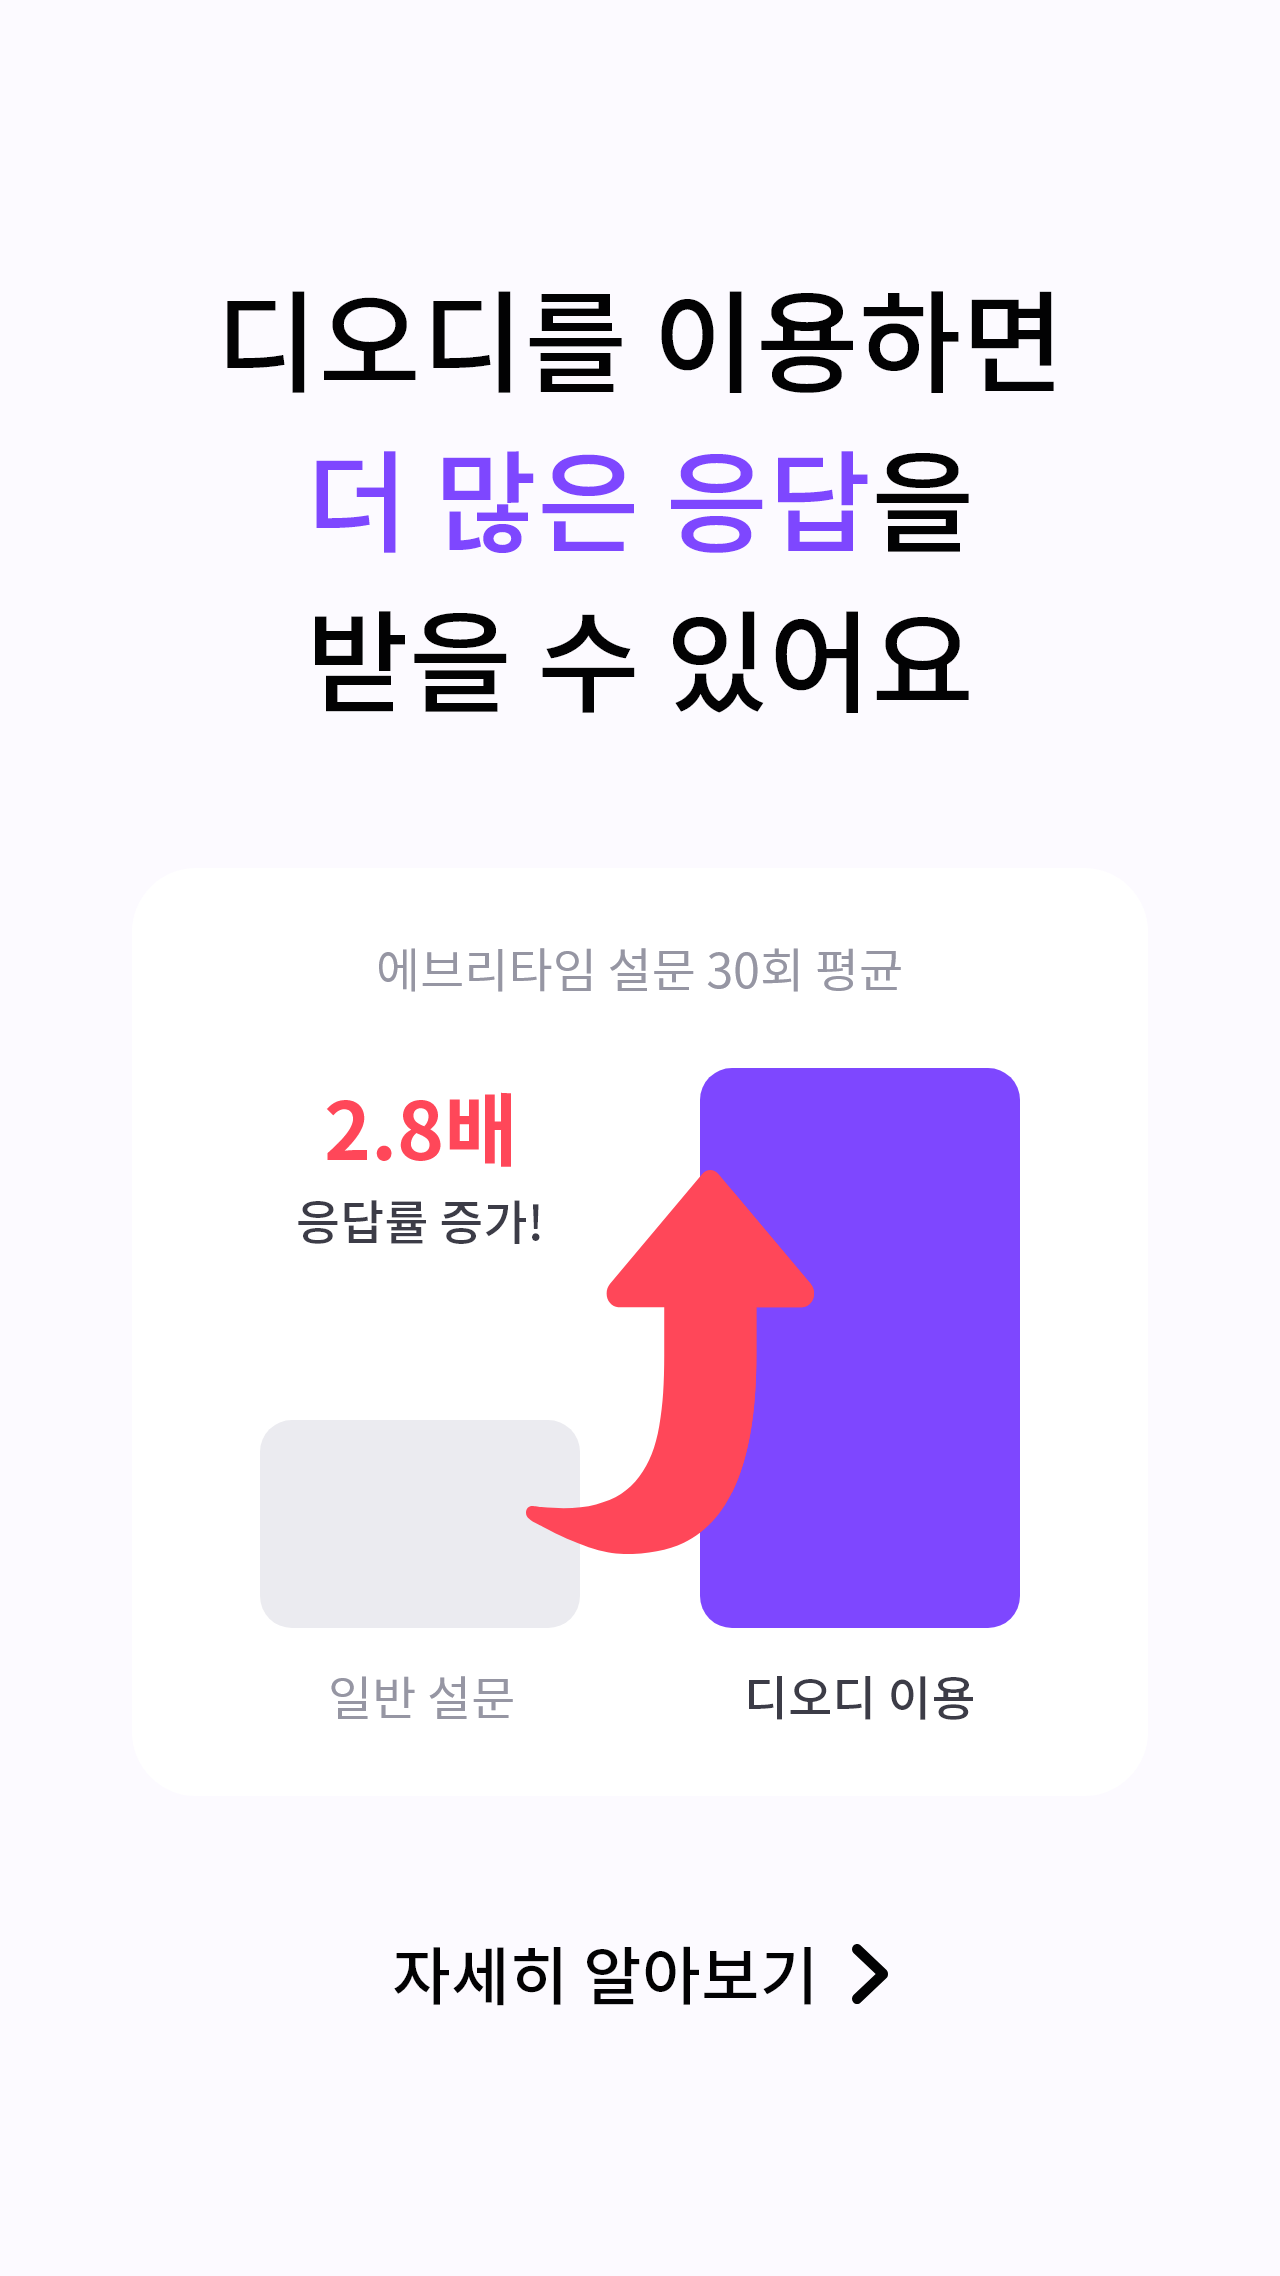
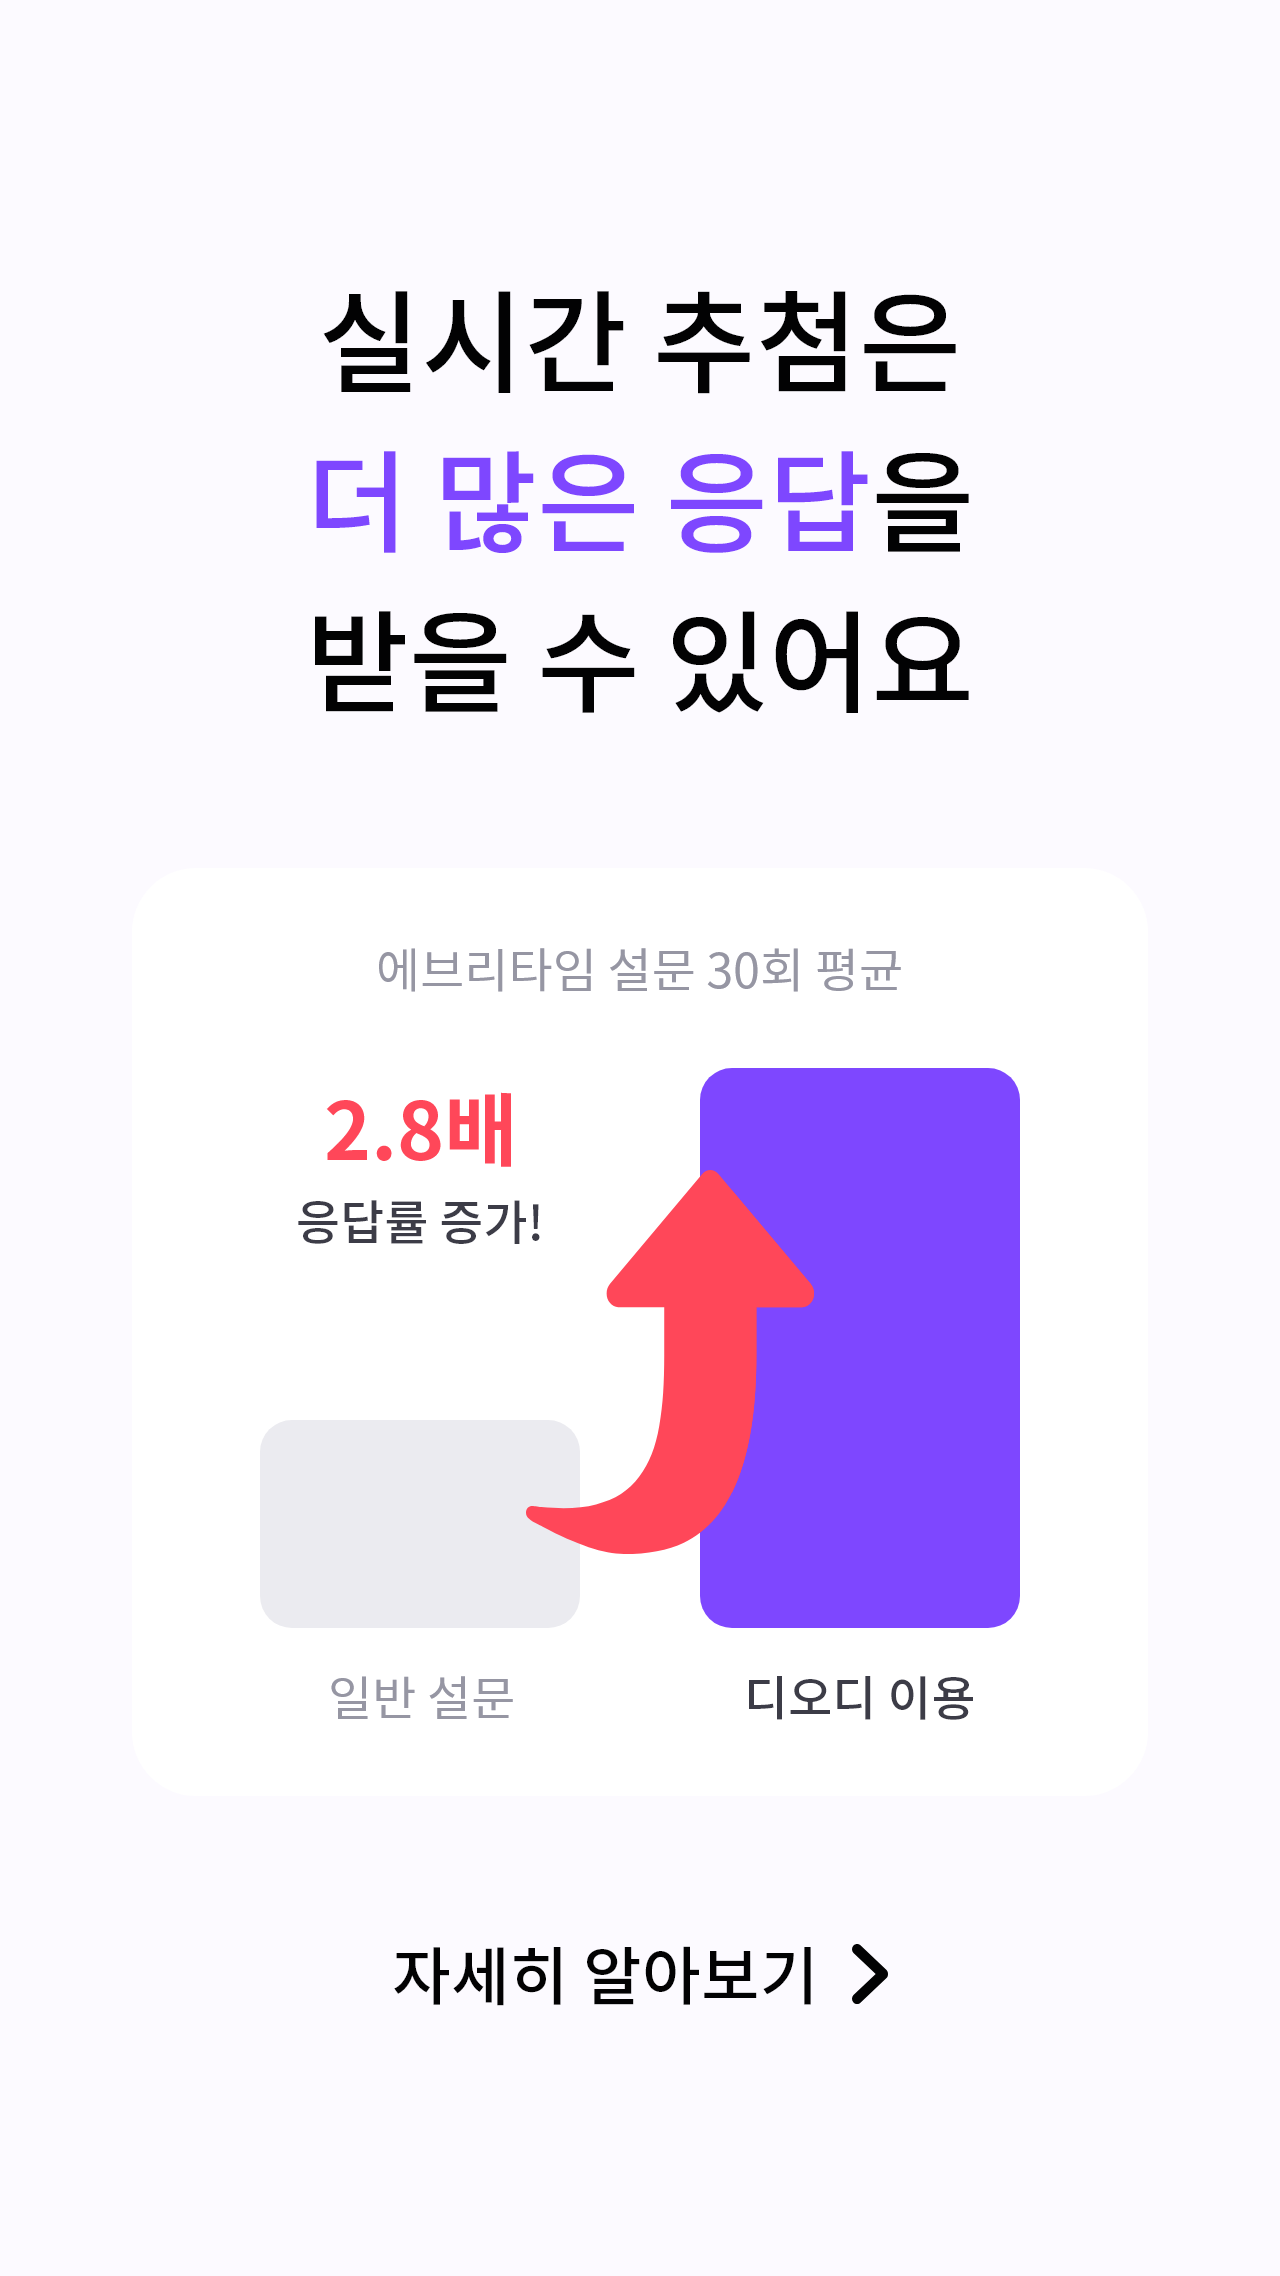
[Merged]development DOD V2

Changed region(s): [[0.4062, 0.1248, 0.8438, 0.1872], [0.1562, 0.1248, 0.375, 0.1872]]

diff --git a/src/components/Mainpage/StartButtonBig.js b/src/components/Mainpage/StartButtonBig.js
@@ -41,7 +41,7 @@ function StartButtonBig(props) {
                 <p className='startBtnBig-btn' onClick={onClickTest}>실시간 추첨 체험해보기</p>
                 <img className='startBtnBig-arrow' alt='' src={process.env.PUBLIC_URL + '/arrow-right-white.png'}/>
             </div>
-            <img className='startBtnBig-img' alt='' src={process.env.PUBLIC_URL + '/mainpage-img.png'}/>
+            <img className='startBtnBig-img' alt='' src={process.env.PUBLIC_URL + '/mainpage-img.gif'}/>
             <img className='startBtnBig-img2' alt='' src={process.env.PUBLIC_URL + '/arrow-down.png'}/>
             <img className='startBtnBig-gif-web' src={process.env.PUBLIC_URL + '/main-manual1-pc.png'} onClick={onClickDetails} style={{'cursor' : 'pointer'}}/>
             <img className='startBtnBig-gif-web' src={process.env.PUBLIC_URL + '/main-manual2-pc.png'}/>

diff --git a/src/network/network.js b/src/network/network.js
@@ -1,6 +1,6 @@
 // const baseUrl = 'https://docs.gift'
-// const baseUrl = 'https://d-o-d.io'
-const baseUrl = 'http://3.36.156.224:8010'
+const baseUrl = 'https://d-o-d.io'
+// const baseUrl = 'http://3.36.156.224:8010'
 // const baseUrl = 'https://dod-link.com'
 export const kakaoLink = 'http://pf.kakao.com/_nfxcTs/chat'
 export const privacyPolicy = 'https://www.notion.so/dod-8dcf79f6f2e243f1a7b506b538a5ed92'

diff --git a/src/components/Mainpage/StartButtonBig.css b/src/components/Mainpage/StartButtonBig.css
@@ -67,12 +67,14 @@
 }
 .startBtnBig-img{
     width: 320px;
-    height: 150px;
+    height: 180px;
     margin-top: 48px;
     margin-bottom: 64px;
 }
 .startBtnBig-img2{
     margin-bottom: 32px;
+    width: 20px;
+    height: 12px;
 }
 .startBtnBig-gif-web{
     width: 100%;
